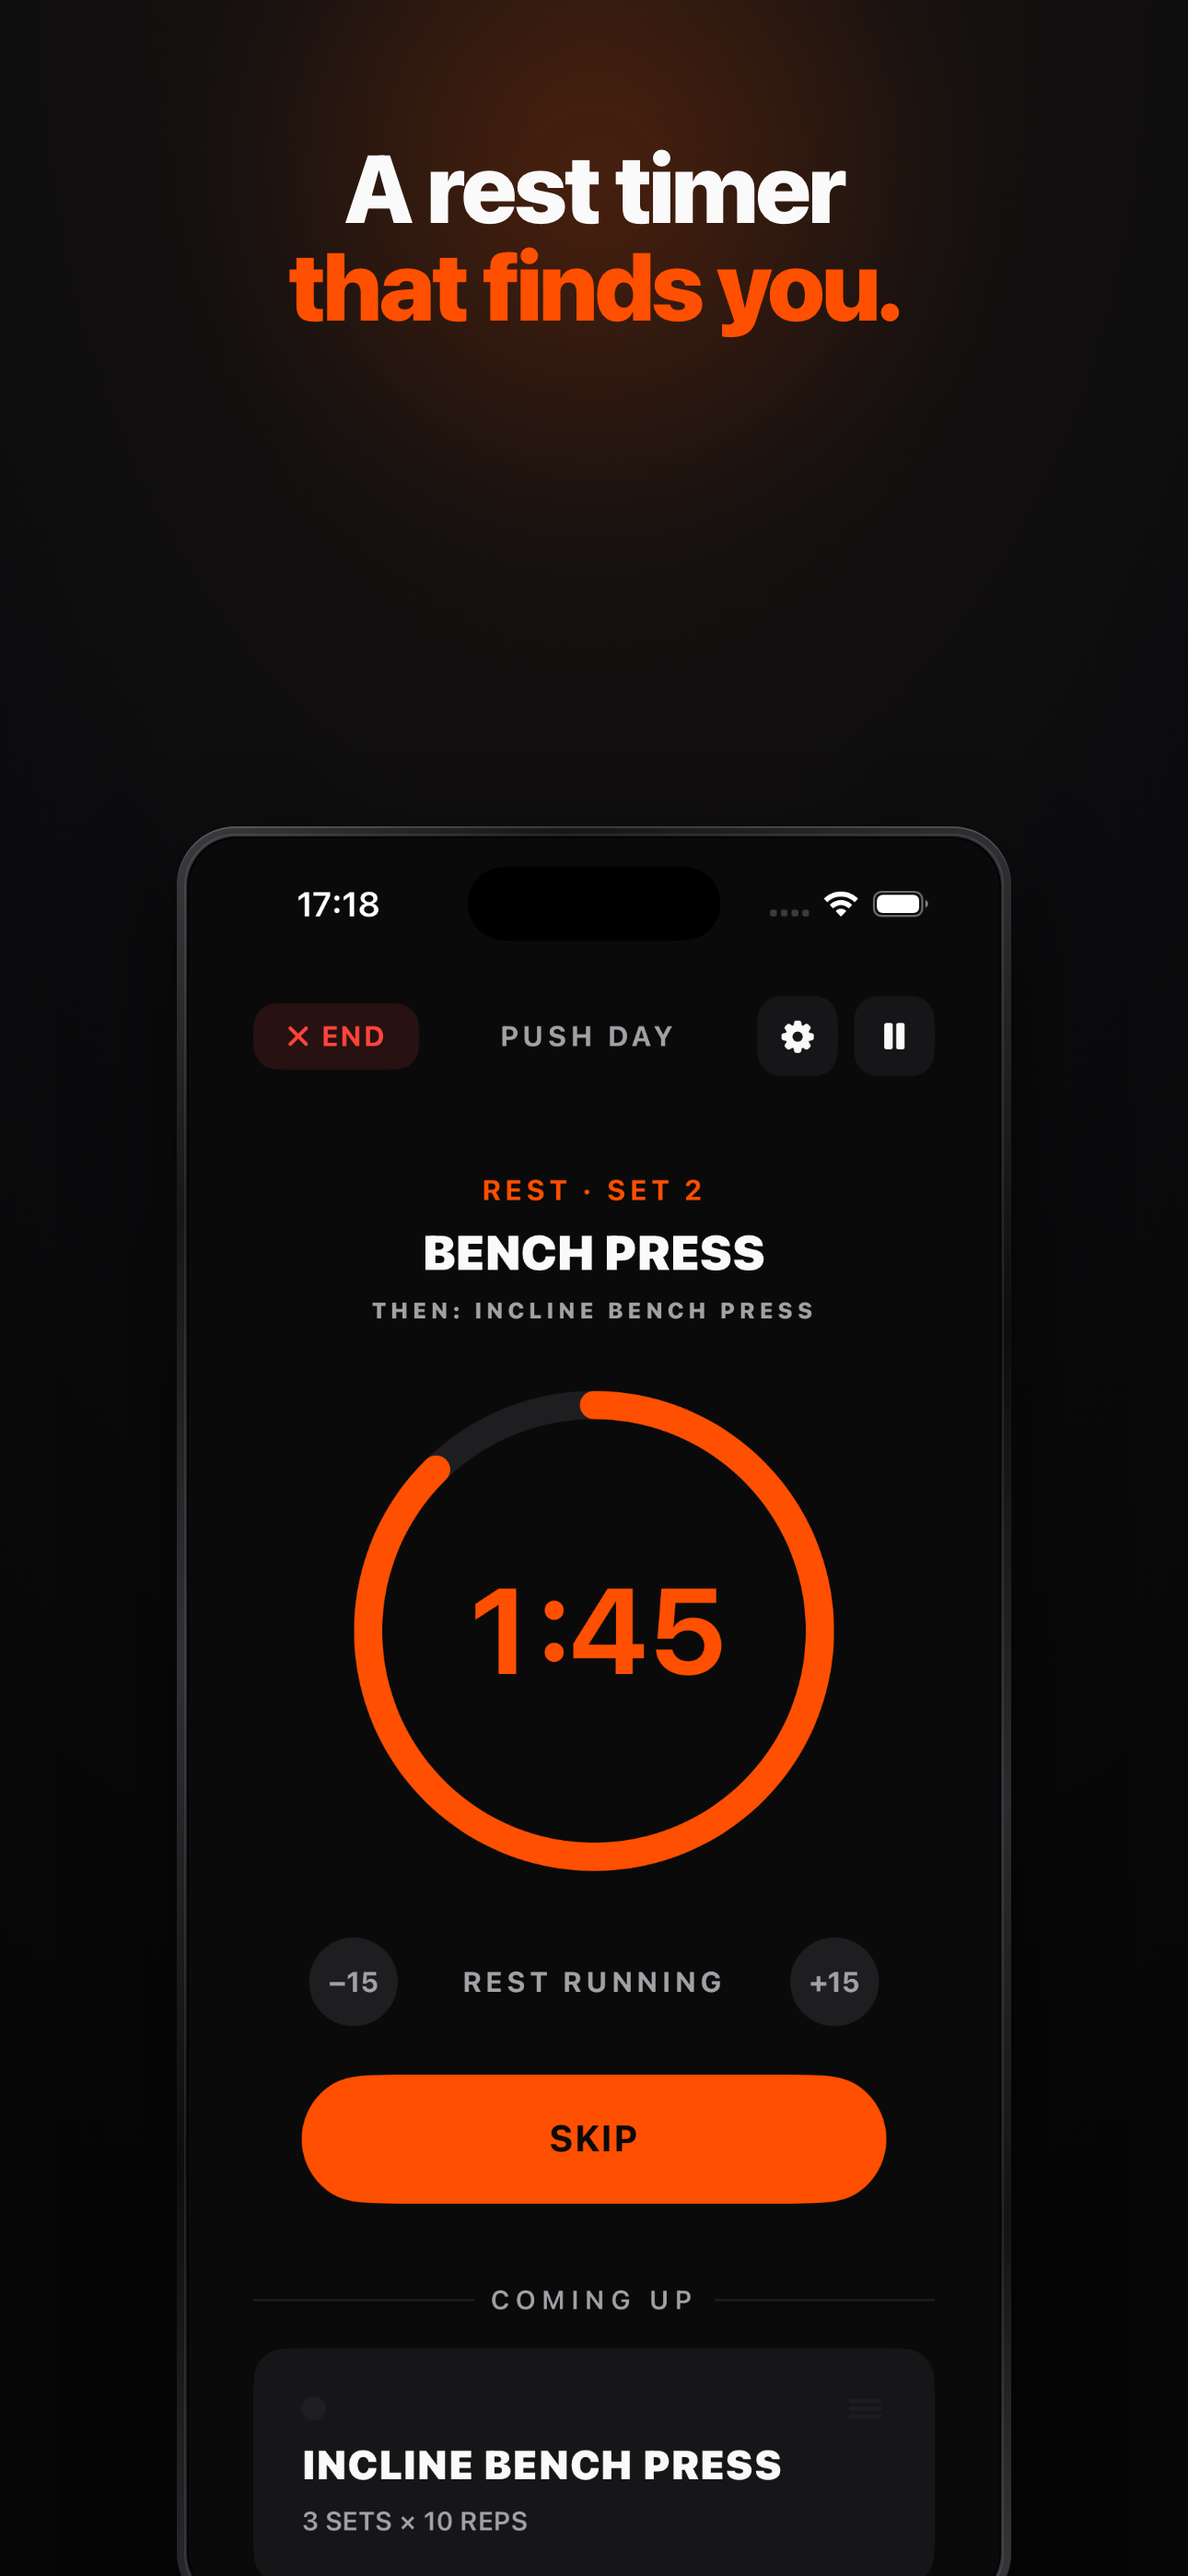
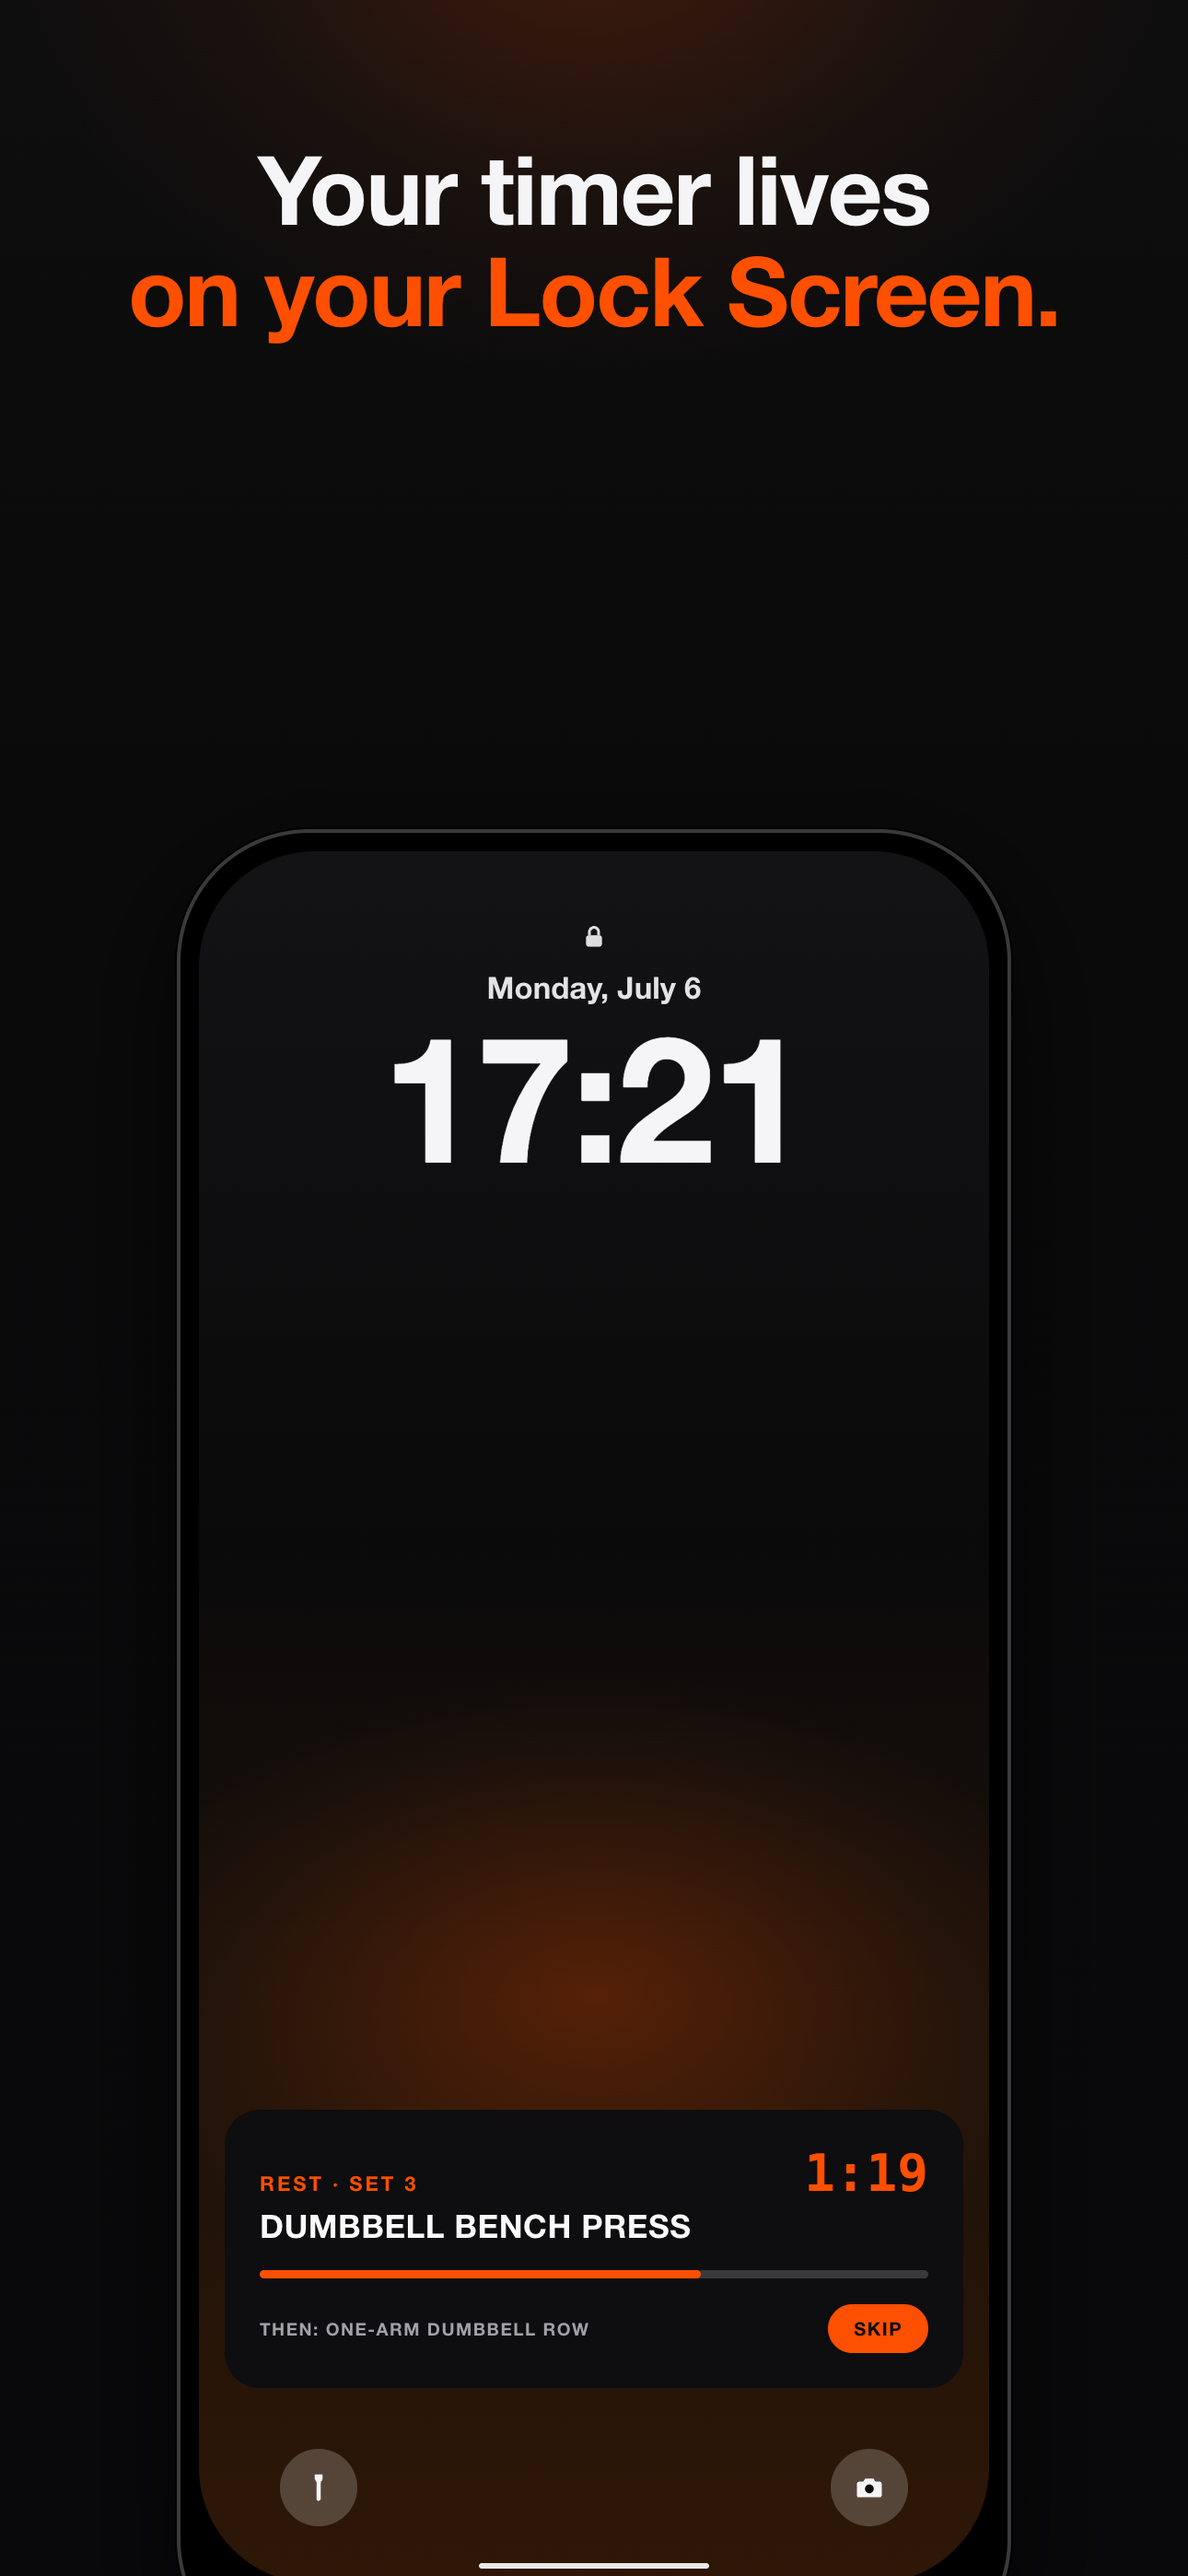
assets: stylized lock-screen slide 4 in both languages (1.1)
Matti preferred a stylized composing over his raw device shot: new
'lockscreen' template in make_store_slides.py — brand wallpaper with
orange glow, neutral 17:21 clock matching the set, and the Live Activity
banner rebuilt exactly from the app's strings (DE: PAUSE · SATZ 3 /
KH-BANKDRÜCKEN; EN: REST · SET 3 / DUMBBELL BENCH PRESS). Solves the EN
shot problem too — no device language switch needed. Script now takes
[all|ghost|lockscreen] so partial rebuilds don't require old raw shots.
What's New gains the in-app language switch line in both languages.

diff --git a/scripts/make_store_slides.py b/scripts/make_store_slides.py
@@ -1,9 +1,14 @@
 #!/usr/bin/env python3
 """Generate App Store panel slides (1290x2796) via headless Chrome.
 
-Two templates, calibrated against the existing GymBuddy slide set:
+Three templates, calibrated against the existing GymBuddy slide set:
 - device: headline on top, framed iPhone screenshot below (cut at bottom)
 - statement: centered typography slide (logo + 3 lines + subline)
+- lockscreen: stylized lock screen with the rest-timer Live Activity banner
+  (composed, not a raw shot — brand wallpaper, neutral 17:21 clock; used for
+  slot 4 in both languages since the simulator can't render a ticking lock)
+
+Usage: python3 make_store_slides.py [all|ghost|lockscreen]
 """
 import base64
 import pathlib
@@ -102,14 +107,104 @@ def statement_slide(line1, line2, line3, sub1, sub2, out):
                                  line3=line3, sub1=sub1, sub2=sub2), SCRATCH / out)
 
 
+# --- Stylized lock screen (slot 4) -------------------------------------------
+
+LOCKSCREEN_CSS = """
+.lockscreen {
+  position:relative; width:858px; height:1880px;
+  background:
+    radial-gradient(ellipse 700px 460px at 50% 66%, rgba(255,79,0,0.26), rgba(140,60,15,0.10) 55%, rgba(10,10,11,0) 76%),
+    linear-gradient(180deg, #131315 0%, #0a0a0b 40%, #1c1109 68%, #2e1707 100%);
+}
+.lock { position:absolute; top:78px; width:100%; text-align:center; }
+.lock svg { width:30px; height:30px; opacity:0.9; }
+.ls-date { position:absolute; top:128px; width:100%; text-align:center;
+  font-size:33px; font-weight:600; color:rgba(245,245,247,0.92); }
+.ls-clock { position:absolute; top:150px; width:100%; text-align:center;
+  font-size:190px; font-weight:700; letter-spacing:-3px; color:#f5f5f7; }
+.banner {
+  position:absolute; left:28px; right:28px; bottom:212px;
+  background:rgba(13,13,15,0.97); border-radius:38px; padding:36px 38px 38px;
+}
+.b-top { display:flex; align-items:baseline; justify-content:space-between; }
+.b-kicker { font-size:22px; font-weight:900; letter-spacing:3px; color:#ff4f00; }
+.b-time { font-family:"SF Mono", ui-monospace, Menlo, monospace;
+  font-size:56px; font-weight:900; color:#ff4f00; }
+.b-exercise { margin-top:4px; font-size:35px; font-weight:900; letter-spacing:0.5px; color:#fafafa; }
+.b-bar { margin-top:26px; height:9px; border-radius:5px; background:#39393d; overflow:hidden; }
+.b-bar div { width:66%; height:100%; border-radius:5px; background:#ff4f00; }
+.b-bottom { margin-top:28px; display:flex; align-items:center; justify-content:space-between; }
+.b-next { font-size:19px; font-weight:800; letter-spacing:1.5px; color:#a1a1a6; }
+.b-skip { background:#ff4f00; border-radius:999px; padding:14px 28px;
+  font-size:20px; font-weight:900; letter-spacing:1.5px; color:#0a0a0b; }
+.quick { position:absolute; bottom:62px; width:84px; height:84px; border-radius:50%;
+  background:rgba(255,255,255,0.20); display:flex; align-items:center; justify-content:center; }
+.quick svg { width:34px; height:34px; }
+.quick.flash { left:88px; }
+.quick.cam { right:88px; }
+.homebar { position:absolute; bottom:16px; left:50%; transform:translateX(-50%);
+  width:250px; height:6px; border-radius:3px; background:rgba(255,255,255,0.9); }
+"""
+
+LOCK_SVG = ('<svg viewBox="0 0 24 24" fill="none"><rect x="5" y="10.5" width="14" height="10" '
+            'rx="2.6" fill="#f5f5f7"/><path d="M8 10.5V7.6a4 4 0 1 1 8 0v2.9" stroke="#f5f5f7" '
+            'stroke-width="2.4" fill="none"/></svg>')
+FLASH_SVG = ('<svg viewBox="0 0 24 24" fill="#f5f5f7"><path d="M9 2h6v3.5L13.6 8v12.6a1.6 1.6 0 0 1-3.2 0V8L9 5.5Z"/></svg>')
+CAM_SVG = ('<svg viewBox="0 0 24 24" fill="#f5f5f7"><path d="M4 7.5h3.2L9 5.2h6L16.8 7.5H20a1.5 1.5 0 0 1 1.5 1.5v9A1.5 1.5 0 0 1 20 19.5H4A1.5 1.5 0 0 1 2.5 18V9A1.5 1.5 0 0 1 4 7.5Z"/>'
+           '<circle cx="12" cy="13" r="3.4" fill="#0a0a0b"/></svg>')
+
+LOCKSCREEN_HTML = """<!DOCTYPE html><html><head><meta charset="utf-8"><style>{css}{ls_css}</style></head>
+<body>
+  <div class="headline">{line1}<br><span class="accent">{line2}</span></div>
+  <div class="device"><div class="screen">
+    <div class="lockscreen">
+      <div class="lock">{lock_svg}</div>
+      <div class="ls-date">{date}</div>
+      <div class="ls-clock">17:21</div>
+      <div class="banner">
+        <div class="b-top"><span class="b-kicker">{kicker}</span><span class="b-time">1:19</span></div>
+        <div class="b-exercise">{exercise}</div>
+        <div class="b-bar"><div></div></div>
+        <div class="b-bottom"><span class="b-next">{next}</span><span class="b-skip">{skip}</span></div>
+      </div>
+      <div class="quick flash">{flash_svg}</div>
+      <div class="quick cam">{cam_svg}</div>
+      <div class="homebar"></div>
+    </div>
+  </div></div>
+</body></html>"""
+
+
+def lockscreen_slide(line1, line2, date, kicker, exercise, next_label, skip, out):
+    render(LOCKSCREEN_HTML.format(
+        css=BASE_CSS, ls_css=LOCKSCREEN_CSS, lock_svg=LOCK_SVG, flash_svg=FLASH_SVG,
+        cam_svg=CAM_SVG, line1=line1, line2=line2, date=date, kicker=kicker,
+        exercise=exercise, next=next_label, skip=skip), SCRATCH / out)
+
+
 if __name__ == "__main__":
-    # EN
-    device_slide("See what you lifted", "last time.", SCRATCH / "en-ghost-raw.png", "en-05-last-time.png")
-    statement_slide("No account.", "No ads.", "No nonsense.",
-                    "100% offline.", "Your data never leaves your phone.",
-                    "en-03-no-account.png")
-    # DE
-    device_slide("Du siehst immer,", "was letztes Mal ging.", SCRATCH / "de-ghost-raw.png", "de-05-letztes-mal.png")
-    statement_slide("Kein Account.", "Keine Werbung.", "Kein Quatsch.",
-                    "100% offline.", "Deine Daten bleiben auf deinem Handy.",
-                    "de-03-kein-account.png")
+    which = sys.argv[1] if len(sys.argv) > 1 else "all"
+
+    if which in ("all", "ghost"):
+        # EN
+        device_slide("See what you lifted", "last time.", SCRATCH / "en-ghost-raw.png", "en-05-last-time.png")
+        statement_slide("No account.", "No ads.", "No nonsense.",
+                        "100% offline.", "Your data never leaves your phone.",
+                        "en-03-no-account.png")
+        # DE
+        device_slide("Du siehst immer,", "was letztes Mal ging.", SCRATCH / "de-ghost-raw.png", "de-05-letztes-mal.png")
+        statement_slide("Kein Account.", "Keine Werbung.", "Kein Quatsch.",
+                        "100% offline.", "Deine Daten bleiben auf deinem Handy.",
+                        "de-03-kein-account.png")
+
+    if which in ("all", "lockscreen"):
+        # Slot 4: rest-timer Live Activity — banner strings mirror the app's
+        # RestActivityAttributes content (L + ExerciseLocalization) exactly.
+        lockscreen_slide("Dein Timer lebt", "auf dem Lockscreen.",
+                         "Montag, 6. Juli", "PAUSE · SATZ 3", "KH-BANKDRÜCKEN",
+                         "DANN: EINARMIGES KH-RUDERN", "ÜBERSPRINGEN",
+                         "de-04-pausen-timer.png")
+        lockscreen_slide("Your timer lives", "on your Lock Screen.",
+                         "Monday, July 6", "REST · SET 3", "DUMBBELL BENCH PRESS",
+                         "THEN: ONE-ARM DUMBBELL ROW", "SKIP",
+                         "en-04-rest-timer.png")

diff --git a/docs/app-store-listing.md b/docs/app-store-listing.md
@@ -113,12 +113,12 @@ Werbung. Kein Quatsch."), `05-letztes-mal` ("Du siehst immer, was letztes Mal gi
 Retired slides live in `docs/app-store/retired/`. Generator: scratchpad `make_slides.py`
 (headless Chrome, 1290×2796) — raw device shots from iPhone 17 Pro simulator, status bar 17:21.
 
-**Slot 4 DE updated 06.07.2026 (for 1.1):** now shows the Live Activity on a real lock screen
-("Dein Timer lebt auf dem Lockscreen.") — raw shot from Matti's device in
-`docs/app-store/raw/Lockscreen_DE.png` (NOT reproducible in the simulator: locked screens
-render the ticking countdown as "1:--"). Old in-app timer slide retired as
-`retired/de/04-pausen-timer-v1-inapp.png`. **EN slot 4 still pending** — needs the same shot
-with device language English ("Your timer lives on your Lock Screen.").
+**Slot 4 (both languages) updated 06.07.2026 (for 1.1):** stylized lock-screen composing with
+the Live Activity banner ("Dein Timer lebt auf dem Lockscreen." / "Your timer lives on your
+Lock Screen.") — generated by `scripts/make_store_slides.py lockscreen` (Matti preferred a
+stylized look over his raw device shot; banner strings mirror the app exactly, neutral 17:21
+clock matches the set). Real-device reference shot kept in `docs/app-store/raw/Lockscreen_DE.png`;
+earlier slide versions in `retired/` (v1 in-app timer, v2 DE real shot).
 
 App Store Connect required size is **6.9" (1290×2796)** — a single set is accepted and
 auto-scaled to smaller devices.
@@ -134,6 +134,7 @@ auto-scaled to smaller devices.
 > • Finish & save: end a workout early and keep every completed set
 > • One tap: adopt "last time" values straight into the current set
 > • Type your weight: keyboard entry in the set editor, plus finer 1.25 kg / 2.5 lb steps
+> • Switch the app language (System / Deutsch / English) right in Settings
 > • VoiceOver support and a sharper app icon
 
 ### What's New — DE
@@ -143,6 +144,7 @@ auto-scaled to smaller devices.
 > • Beenden & speichern: Workout vorzeitig beenden, alle erledigten Sätze bleiben im Log
 > • Ein Tap: „Letztes Mal"-Werte direkt in den aktuellen Satz übernehmen
 > • Gewicht tippen statt kurbeln: Tastatur-Eingabe im Satz-Editor, plus feinere 1,25-kg-Schritte
+> • Sprache direkt in den Einstellungen umschalten (System / Deutsch / English)
 > • VoiceOver-Unterstützung und ein schärferes App-Icon
 
 ### ASC checklist for the 1.1 submission

diff --git a/docs/ROADMAP.md b/docs/ROADMAP.md
@@ -73,8 +73,8 @@ Apple featured gern zugängliche Apps — und es ist schlicht richtig. Aufwand: 
 Das vertikale „G-Y-M" wird bei 60 px (Suchergebnisse) klein. Variante bauen: größere,
 fettere Buchstaben oder nur „G" mit Orange-Akzent. A/B-Vergleich als Mockup, dann entscheiden.
 
-### 8. 🔶 Mitfahrende Kleinigkeiten (What's-New-Texte EN/DE fertig in `app-store-listing.md`;
-offen: Lockscreen-Screenshot Slot 4 vom ECHTEN Gerät — Simulator zeigt „1:--" — und ASC-Eintrag beim Release)
+### 8. ✅ Mitfahrende Kleinigkeiten (06.07. — What's-New EN/DE + stilisierte Slot-4-Slides in
+beiden Sprachen fertig; dazu ungeplant: In-App-Sprachschalter. Offen nur noch: ASC-Eintrag beim Release)
 - Beschreibungs-Update DE (liegt fertig in `app-store-listing.md`: „nur trainieren wollen",
   „Gebaut für dich und das Gym.")
 - Neuer Store-Screenshot Slot 4: Timer **mit Dynamic Island** zeigen (Feature verkauft sich selbst)
